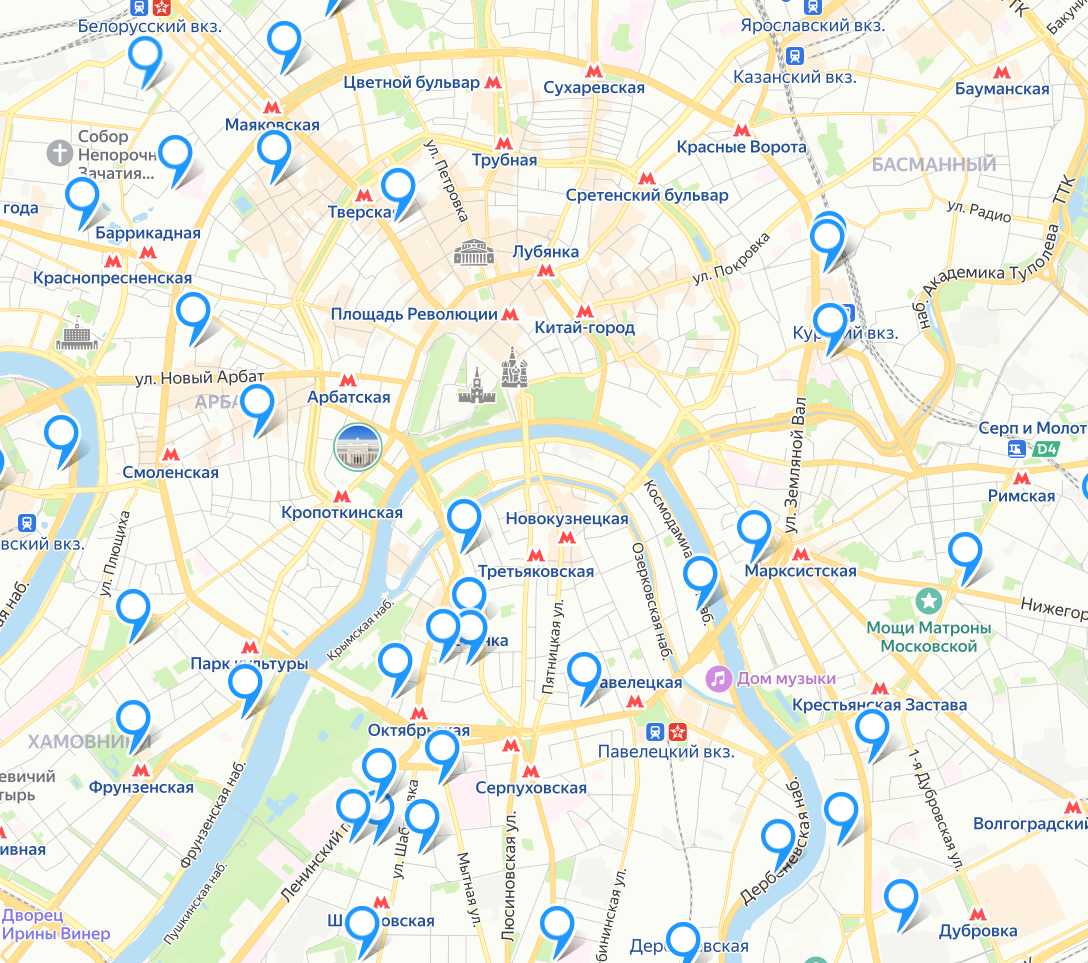
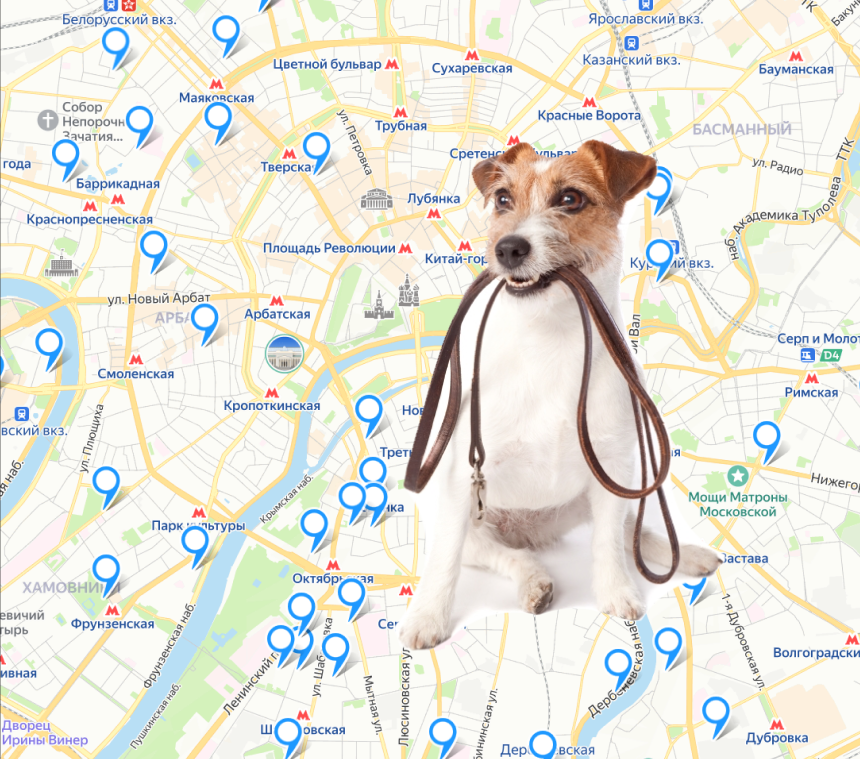
второй экран главной страницы

diff --git a/backend/map.js b/backend/map.js
@@ -1,77 +1,3 @@
-// var myMap; 
-
-// function init() {
-//     myMap = new ymaps.Map("map", {
-//         center: [55.8, 37.66],
-//         zoom: 10
-//     });
-
-//     fetchParks();  
-// }
-
-// function fetchParks(dogType = "", ratingRange = "", elements = []) {
-//     console.log(`Запрос на сервер с dog_type=${dogType}, rating_range=${ratingRange}, elements=${elements.join(",")}`);
-
-//     myMap.geoObjects.removeAll();
-
-//     const elementsQuery = elements.map(encodeURIComponent).join(',');
-//     fetch(`/backend/filter.php?dog_type=${dogType}&rating_range=${ratingRange}&elements=${elementsQuery}`)
-//     .then(response => response.json())
-//     .then(parks => {
-//         console.log('Получены данные о парках:', parks);
-
-//         if (parks.length === 0) {
-//             console.log('Нет парков, удовлетворяющих фильтрам');
-//             alert('Нет площадок, соответствующих фильтрам.');
-//         }
-
-//         parks.forEach(park => {
-//             const placemark = new ymaps.Placemark(
-//                 [park.latitude, park.longitude], 
-//                 { balloonContent: `<strong>Локация:</strong> ${park.Location}` },
-//                 {
-//                     iconLayout: 'default#image',
-//                     iconImageHref: '/assets/images/island.png',
-//                     iconImageSize: [40, 40],
-//                     iconImageOffset: [-20, -20]
-//                 }
-//             );
-
-//             placemark.events.add('click', () => {
-//                 loadParkDetails(park.global_id, park.latitude, park.longitude);
-//             });
-
-//             myMap.geoObjects.add(placemark); 
-//         });
-//     })
-//     .catch(error => {
-//         console.error('Ошибка загрузки площадок:', error);
-//         alert('Ошибка при загрузке данных');
-//     });
-// }
-
-// function filterParks() {
-//     const dogType = document.getElementById('dog-type').value;
-//     const ratingRange = document.getElementById('rating-range').value;
-//     const elements = Array.from(document.querySelectorAll('input[name="elements"]:checked')).map(el => el.value);
-
-//     console.log(`Выбрано: dog_type=${dogType}, rating_range=${ratingRange}, elements=${elements.join(",")}`);
-
-//     fetchParks(dogType, ratingRange, elements);
-// }
-
-// function loadParkDetails(parkId, latitude, longitude) {
-//     fetch(`/backend/get_park_details.php?id=${parkId}`)
-//         .then(response => response.json())
-//         .then(data => {
-//             if (data.error) {
-//                 alert(`Ошибка: ${data.error}`);
-//                 return;
-//             }
-
-//             const elements = data.elements && data.elements.length > 0
-//                 ? data.elements.join(', ')
-//                 : 'Элементы не указаны';
 var myMap; 
 
 function init() {
@@ -80,7 +6,7 @@ function init() {
         zoom: 10
     });
 
-    loadElements(); // Load unique elements dynamically
+    loadElements();
     fetchParks();  
 }
 
@@ -217,30 +143,28 @@ function loadParkDetails(parkId, latitude, longitude) {
                     }
                 
                 
-                    function handleSubmitReviewForm(event) {
-                        event.preventDefault(); 
-                    
-                        const form = event.target;
-                        const formData = new FormData(form);
-                    
-                        fetch('/backend/submit_review.php', {
-                            method: 'POST',
-                            body: formData,
-                        })
-                        .then(response => response.json())
-                        .then(result => {
-                            if (result.success) {
-                                alert('Отзыв успешно отправлен!');
-                                form.reset(); // сбрасываем форму
-                            } else {
-                                alert(`Ошибка: ${result.error}`);
-                            }
-                        })
-                        .catch(error => {
-                            console.error('Ошибка отправки отзыва:', error);
-                            alert('Произошла ошибка при отправке отзыва.');
-                        });
+    function handleSubmitReviewForm(event) {
+        event.preventDefault(); 
+        const form = event.target;
+        const formData = new FormData(form);
+        fetch('/backend/submit_review.php', {
+            method: 'POST',
+            body: formData,
+        })
+        .then(response => response.json())
+        .then(result => {
+            if (result.success) {
+                alert('Отзыв успешно отправлен!');
+                form.reset(); // сбрасываем форму
+                    } else {
+                        alert(`Ошибка: ${result.error}`);
                     }
+                })
+                .catch(error => {
+                    console.error('Ошибка отправки отзыва:', error);
+                    alert('Произошла ошибка при отправке отзыва.');
+                });
+            }
                     
                 
-                ymaps.ready(init);
+ymaps.ready(init);

diff --git a/assets/css/styles.css b/assets/css/styles.css
@@ -155,10 +155,18 @@ main {
     font-size: 110px; 
     font-weight: 800; 
     color: #033929;
-    margin-bottom: 100px;
     margin-left: -500px; 
     line-height: 1.1; 
     text-align: left;
+}
+
+.subtitle {
+    font-size: 28px; /* Slightly smaller font than tagline */
+    font-weight: 700; /* Bold text */
+    color: #033929;
+    text-align: center; /* Center-align text */
+    margin-bottom: 150px; /* Space below subtitle for buttons */
+    margin-left: -500px; 
 }
 
 .main-buttons {
@@ -342,3 +350,151 @@ footer {
     font-size: 16px;
     font-weight: 700; 
 }
+
+.second-screen {
+    background-color: #033929;
+    padding: 50px 100px; /* Padding around the section */
+    display: grid;
+    grid-template-columns: 1fr 1fr 1fr; /* Three equal columns for the first row */
+    grid-template-rows: 400px 300px; /* Larger row heights */
+    gap: 25px; /* Space between blocks */
+    justify-content: center;
+    align-items: center;
+    text-align: center;
+    font-size: 45px;
+    height: 100vh; /* Full-screen height */
+}
+
+.row1-block1 {
+    grid-column: 1;
+    grid-row: 1;
+    background-color: #FFF9EC;
+    display: flex;
+    justify-content: center;
+    align-items: center;
+    border: 5px solid #EC4C0E;
+    border-radius: 15px;
+    box-shadow: 0 4px 8px rgba(0, 0, 0, 0.2);
+    overflow: hidden;
+}
+
+.row1-block1 img {
+    width: 100%;
+    height: 100%;
+    object-fit: cover;
+}
+
+
+.row1-block2 {
+    grid-column: 2;
+    grid-row: 1;
+    background-color: #FFF9EC;
+    
+    color: #033929; /* Dark green text */
+    font-size: 40px; /* Larger font size for emphasis */
+    font-weight: 900; /* Extra bold text */
+    text-align: left; /* Align text to the left */
+    padding: 20px 30px; /* Add padding for spacing */
+    display: flex;
+    justify-content: flex-start; /* Align content to the left */
+    align-items: center; /* Vertically center the text */
+    border-radius: 15px;
+    box-shadow: 0 4px 8px rgba(0, 0, 0, 0.2);
+    height: 428px; /* Ensure the height matches row1-block1 */
+}
+
+.row1-block3 {
+    grid-column: 3;
+    grid-row: 1;
+    display: flex;
+    justify-content: center;
+    align-items: center;
+    overflow: hidden;
+    position: relative; /* Establish a stacking context */
+    transform: translateY(139px); /* Move the block down by 120px */
+    z-index: 10; /* Keep this on a higher z-layer if needed */
+}
+
+.row1-block3 img {
+    width: 100%;
+    height: 100%;
+    object-fit: cover; /* Ensures the image fills the block */
+    border-radius: 15px;
+    box-shadow: 0 4px 8px rgba(0, 0, 0, 0.2); /* Optional shadow for styling */
+}
+/* Row 2 Block 1 */
+.row2-block1 {
+    grid-column: 1;
+    grid-row: 2;
+    background-color: #033929;
+    color: #FFF9EC;
+    font-weight: 700;
+    border: 5px solid #FFF9EC;
+    display: flex;
+    justify-content: center;
+    align-items: center;
+    border-radius: 15px;
+}
+
+/* Row 2 Block 1 */
+.row2-block1 {
+    grid-column: 1;
+    grid-row: 2;
+    background-color: #033929;
+    color: #FFF9EC;
+    font-weight: 700;
+    border: 5px solid #FFF9EC;
+    display: flex;
+    justify-content: center;
+    align-items: center;
+    border-radius: 15px;
+}
+
+/* Row 2 Block 2 (now third block) */
+.row2-block2 {
+    grid-column: 3; /* Move this block to the third column */
+    grid-row: 2;
+    background-color: #EC4C0E;
+    display: flex;
+    justify-content: center;
+    align-items: center;
+    border-radius: 15px;
+}
+
+.row2-block2 img {
+    max-width: 80%;
+    height: auto;
+}
+
+/* Row 2 Block 3 (now second block) */
+.row2-block3 {
+    grid-column: 2; /* Move this block to the second column */
+    grid-row: 2;
+    background-color: #033929;
+    color: #FFF9EC;
+    font-weight: 700;
+    border: 5px solid #FFF9EC;
+    display: flex;
+    justify-content: center;
+    align-items: center;
+    border-radius: 15px;
+}
+
+@media (min-width: 1200px) {
+    .second-screen {
+        grid-template-columns: 1fr 1fr 1fr; /* Add a third column for Row 2 */
+    }
+
+    .row2-block1,
+    .row2-block2,
+    .row2-block3 {
+        height: 300px;
+    }
+}
+
+
+
+
+
+
+

diff --git a/frontend/index.html b/frontend/index.html
@@ -26,6 +26,9 @@
         <div class="tagline">
             Ваш питомец,<br> ваш приоритет
         </div>
+        <div class="subtitle">
+            Интерактивная карта для подбора площадок от PetMap
+        </div>
         <div class="main-buttons">
             <a href="register.html" class="main-button-link">
                 <button class="main-button">Регистрация</button>
@@ -39,9 +42,40 @@
         </div>
     </main>
 
+    
+    <section class="second-screen">
+        <!-- Row 1 -->
+        <div class="block row1-block1">
+            <img src="/assets/images/map.png" alt="Интерактивная карта">
+        </div>
+        <div class="block row1-block2" id="row1-text">
+            Интерактивная карта<br>
+            подбора площадок<br>
+            для выгула собак
+        </div>
+        <div class="block row1-block3">
+        
+                <img src="/assets/images/dog_block.png" alt="Дополнительная картинка">
+            </a>
+        </div>
+    
+        <!-- Row 2 -->
+        <div class="block row2-block1" id="row2-interactive-map">
+            Прогулки с вашими<br>
+            питомцами ещё<br>
+            удобнее и приятнее
+        </div>
+        <div class="block row2-block2" >
+            <img src="/assets/images/logo.svg" alt="Логотип">
+        </div>
+        <div class="block row2-block3" id="row2-interactive-map">
+            Присоединяйся к нашему сообществу
+        </div>
+    </section>
+    
     <footer>
-        PetMap © 2025. Все права защищены
-        С использование открытых данных :  <p><a href="https://data.mos.ru/opendata/2663?isDynamic=false">  Датасет</a></p>
+        PetMap © 2025. Все права защищены.
+        С использование открытых данных :  <p><a href="https://data.mos.ru/opendata/2663?isDynamic=false">  ссылка на датасет</a></p>
     </footer>
 
 </body>

diff --git a/frontend/login.html b/frontend/login.html
@@ -49,9 +49,9 @@
         <a href="register.html" class="main-button-link">Нет аккаунта? Зарегистрироваться</a>
     </div>
 
-    <footer>
-        PetMap © 2025. Все права защищены
-        С использование открытых данных :  <p><a href="https://data.mos.ru/opendata/2663?isDynamic=false">  Датасет</a></p>
+     <footer>
+        PetMap © 2025. Все права защищены.
+        С использование открытых данных :  <p><a href="https://data.mos.ru/opendata/2663?isDynamic=false">  ссылка на датасет</a></p>
     </footer>
 </body>
 </html>

diff --git a/frontend/map.html b/frontend/map.html
@@ -54,8 +54,8 @@
     <div id="map" style="width: 900px; height: 700px;"></div>
     </div>
     <footer>
-        PetMap © 2025. Все права защищены
-        С использование открытых данных :  <p><a href="https://data.mos.ru/opendata/2663?isDynamic=false">  Датасет</a></p>
+        PetMap © 2025. Все права защищены.
+        С использование открытых данных :  <p><a href="https://data.mos.ru/opendata/2663?isDynamic=false">  ссылка на датасет</a></p>
     </footer>
 </body>
 </html>
